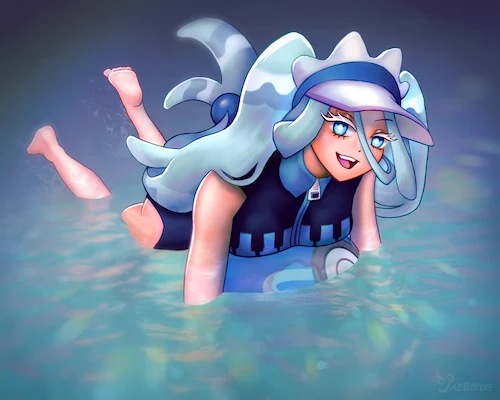
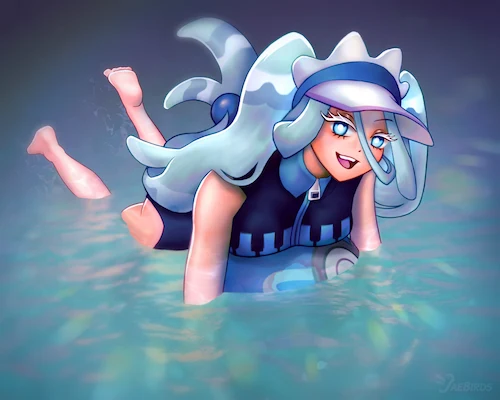
Replacing some art with repaints

diff --git a/index.html b/index.html
@@ -359,6 +359,18 @@
 		</div>
 	</div>
 
+	<div class="item art digitalart y2022 featured">
+		<!-- Space Ace Rosalina painting -  June 2022 -->
+		<a href="/images/spaceacerosalina.webp" data-fancybox="space-ace-rosalina-painting" data-caption="Digital painting of Rosalina from Super Mario in the theme of Asexual Pride using Photoshop.">
+			<img data-src="/images/spaceacerosalina-small.webp" alt="" />
+		</a>
+		<div class="item-bottom">
+			<a href="https://twitter.com/JaebirdsArts/status/1537466279107371008" target="_blank"><i class="fab fa-twitter" aria-hidden="true" title="Twitter"></i></a>
+			<a href="https://www.instagram.com/p/Ce32m6qORET/" target="_blank"><i class="fab fa-instagram" aria-hidden="true" title="Instagram"></i></a>
+			<a href="https://www.etsy.com/ca/listing/1451659476/space-ace-princess-print" target="_blank"><i class="fa fa-shopping-cart" aria-hidden="true" title="Etsy Store"></i></a>
+		</div>
+	</div>
+
 	<div class="item art digitalart y2023">
 		<!-- Dragona Joestar painting -  April 2023 -->
 		<a href="/images/dragonajoestar.webp" data-fancybox="dragona-joestar-painting" data-caption="Digital painting of Dragona Joestar from JoJo's Bizarre Adventure: The JoJoLands using Photoshop.">
@@ -489,18 +501,6 @@
 			<a href="https://twitter.com/JaebirdsArts/status/1556674093860065283" target="_blank"><i class="fab fa-twitter" aria-hidden="true" title="Twitter"></i></a>
 			<a href="https://www.instagram.com/p/ChAWDpBukut/" target="_blank"><i class="fab fa-instagram" aria-hidden="true" title="Instagram"></i></a>
 			<a href="https://www.redbubble.com/shop/ap/119429744" target="_blank"><i class="fa fa-shopping-cart" aria-hidden="true" title="Redbubble Store"></i></a>
-		</div>
-	</div>
-
-	<div class="item art digitalart y2022 featured">
-		<!-- Space Ace Rosalina painting -  June 2022 -->
-		<a href="/images/spaceacerosalina.webp" data-fancybox="space-ace-rosalina-painting" data-caption="Digital painting of Rosalina from Super Mario in the theme of Asexual Pride using Photoshop.">
-			<img data-src="/images/spaceacerosalina-small.webp" alt="" />
-		</a>
-		<div class="item-bottom">
-			<a href="https://twitter.com/JaebirdsArts/status/1537466279107371008" target="_blank"><i class="fab fa-twitter" aria-hidden="true" title="Twitter"></i></a>
-			<a href="https://www.instagram.com/p/Ce32m6qORET/" target="_blank"><i class="fab fa-instagram" aria-hidden="true" title="Instagram"></i></a>
-			<a href="https://www.etsy.com/ca/listing/1451659476/space-ace-princess-print" target="_blank"><i class="fa fa-shopping-cart" aria-hidden="true" title="Etsy Store"></i></a>
 		</div>
 	</div>
 
@@ -678,41 +678,6 @@
 			<a href="https://twitter.com/JaebirdsArts/status/1440706705466146818" target="_blank"><i class="fab fa-twitter" aria-hidden="true" title="Twitter"></i></a>
 			<a href="https://www.instagram.com/p/CUIWSszgE3w/" target="_blank"><i class="fab fa-instagram" aria-hidden="true" title="Instagram"></i></a>
 			<a href="https://www.redbubble.com/people/jaebirds/works/89568111-alice-lendrott-the-duke-of-death-and-his-maid" target="_blank"><i class="fa fa-shopping-cart" aria-hidden="true" title="Redbubble Store"></i></a>
-		</div>
-	</div>
-
-	<div class="item art digitalart y2021">
-		<!-- Komi painting -  July 2021 -->
-		<a href="/images/komi.webp" data-fancybox="komi-painting" data-caption="Digital painting of Shouko Komi from Komi Can't Communicate using Photoshop.">
-			<img data-src="/images/komi-small.webp" alt="" />
-		</a>
-		<div class="item-bottom">
-			<a href="https://twitter.com/JaebirdsArts/status/1415703201366646788" target="_blank"><i class="fab fa-twitter" aria-hidden="true" title="Twitter"></i></a>
-			<a href="https://www.instagram.com/p/CRWvabhAqbJ/" target="_blank"><i class="fab fa-instagram" aria-hidden="true" title="Instagram"></i></a>
-			<a href="https://www.redbubble.com/people/jaebirds/works/82683380-komi-shouko" target="_blank"><i class="fa fa-shopping-cart" aria-hidden="true" title="Redbubble Store"></i></a>
-		</div>
-	</div>
-
-	<div class="item art digitalart y2021">
-		<!-- Ariel painting -  May 2021 -->
-		<a href="/images/ariel.webp" data-fancybox="ariel-painting" data-caption="Digital painting of Ariel from The Little Mermaid using Photoshop.">
-			<img data-src="/images/ariel-small.webp" alt="" />
-		</a>
-		<div class="item-bottom">
-			<a href="https://twitter.com/JaebirdsArts/status/1397941162380382208" target="_blank"><i class="fab fa-twitter" aria-hidden="true" title="Twitter"></i></a>
-			<a href="https://www.instagram.com/p/CPYe01KABG5/" target="_blank"><i class="fab fa-instagram" aria-hidden="true" title="Instagram"></i></a>
-		</div>
-	</div>
-
-	<div class="item art digitalart y2021">
-		<!-- 2B painting -  May 2021 -->
-		<a href="/images/2B.webp" data-fancybox="2b-painting" data-caption="Digital painting of 2B from Nier Automata using Photoshop.">
-			<img data-src="/images/2B-small.webp" alt="" />
-		</a>
-		<div class="item-bottom">
-			<a href="https://twitter.com/JaebirdsArts/status/1387068477110988809" target="_blank"><i class="fab fa-twitter" aria-hidden="true" title="Twitter"></i></a>
-			<a href="https://www.instagram.com/p/COLOE3zgmbO/" target="_blank"><i class="fab fa-instagram" aria-hidden="true" title="Instagram"></i></a>
-			<a href="https://www.redbubble.com/shop/ap/77239453" target="_blank"><i class="fa fa-shopping-cart" aria-hidden="true" title="Redbubble Store"></i></a>
 		</div>
 	</div>
 
